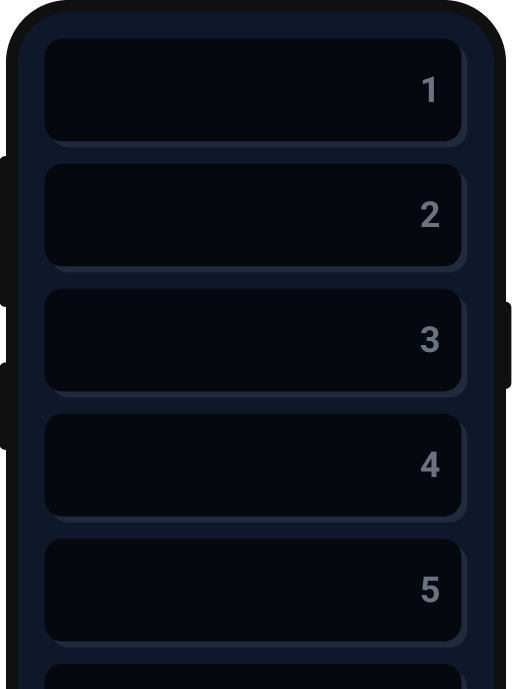
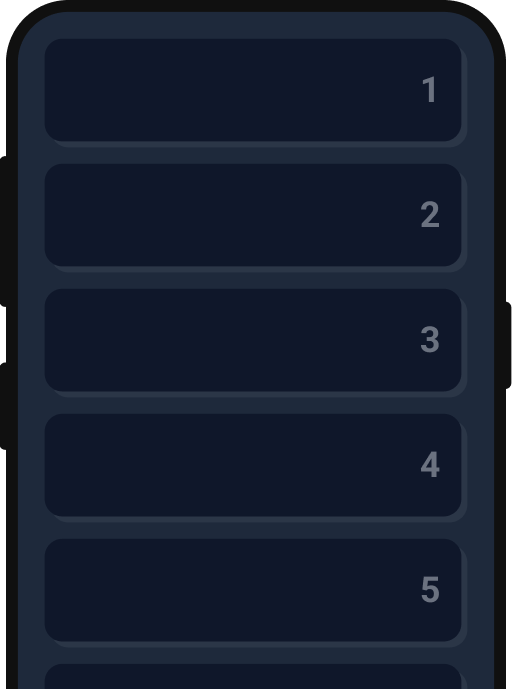
DARKMODE: Examples

diff --git a/components/settings/ThemeSetting.tsx b/components/settings/ThemeSetting.tsx
@@ -1,8 +1,15 @@
 import { ThemePreference } from '../../contexts/Storage/types'
 import OptionsLayout from './layout/OptionsLayout'
+import { SettingsComponent } from './types'
+import { useStorage } from '../../contexts/Storage'
+
+//light mode examples
 import lightModeExample from '../../public/lightMode.png'
 import darkModeExample from '../../public/darkMode.png'
-import { SettingsComponent } from './types'
+
+//dark mode examples
+import darkLightModeExample from '../../public/darkLightMode.png'
+import darkDarkModeExample from '../../public/darkDarkMode.png'
 
 const ThemeSetting: SettingsComponent<ThemePreference> = ({
   value: selectedTheme,
@@ -10,6 +17,11 @@ const ThemeSetting: SettingsComponent<ThemePreference> = ({
   save,
   navigateBack,
 }) => {
+  const { theme } = useStorage() //TODO: Method that support system preference || useExample hook
+
+  const example1 = theme === 'light' ? lightModeExample : darkLightModeExample
+  const example2 = theme === 'light' ? darkModeExample : darkDarkModeExample
+
   return OptionsLayout({
     options: [
       { label: 'בהיר', value: 'light' },
@@ -18,8 +30,8 @@ const ThemeSetting: SettingsComponent<ThemePreference> = ({
     ],
     value: selectedTheme,
     images: [
-      { image: lightModeExample, value: 'light' },
-      { image: darkModeExample, value: 'dark' },
+      { image: example1, value: 'light' },
+      { image: example2, value: 'dark' },
     ],
     onChange: setSelectedTheme,
   })

diff --git a/components/settings/OtherChangesSetting.tsx b/components/settings/OtherChangesSetting.tsx
@@ -1,7 +1,14 @@
 import { SettingsComponent } from './types'
+import OptionsLayout from './layout/OptionsLayout'
+import { useStorage } from '../../contexts/Storage'
+
+//light mode examples
 import lightModeExample from '../../public/lightMode.png'
 import otherChangesExample from '../../public/otherChangesLight.png'
-import OptionsLayout from './layout/OptionsLayout'
+
+//dark mode examples
+import darkLightModeExample from '../../public/darkLightMode.png'
+import darkOtherChangesExample from '../../public/darkOtherChanges.png'
 
 const OtherChangesSetting: SettingsComponent<boolean> = ({
   value,
@@ -9,6 +16,12 @@ const OtherChangesSetting: SettingsComponent<boolean> = ({
   save,
   navigateBack,
 }) => {
+  const { theme } = useStorage() //TODO: Method that support system preference || useExample hook
+
+  const example1 = theme === 'light' ? lightModeExample : darkLightModeExample
+  const example2 =
+    theme === 'light' ? otherChangesExample : darkOtherChangesExample
+
   return OptionsLayout({
     options: [
       { label: 'הצג', value: true },
@@ -17,8 +30,8 @@ const OtherChangesSetting: SettingsComponent<boolean> = ({
     ],
     value: value,
     images: [
-      { image: otherChangesExample, value: true },
-      { image: lightModeExample, value: false },
+      { image: example2, value: true },
+      { image: example1, value: false },
     ],
     onChange: onChange,
   })

diff --git a/components/timetable/ChangeList/Change.tsx b/components/timetable/ChangeList/Change.tsx
@@ -19,7 +19,7 @@ export default function Change(studyGroup: IStudyGroupWithModification) {
       <span className={`${changeTextColor(color)} font-bold`}>
         {modificationMessage}
       </span>
-      <span className="font-semibold">
+      <span className="font-semibold dark:text-gray-300">
         {' '}
         {TO}
         {studyGroupName}
